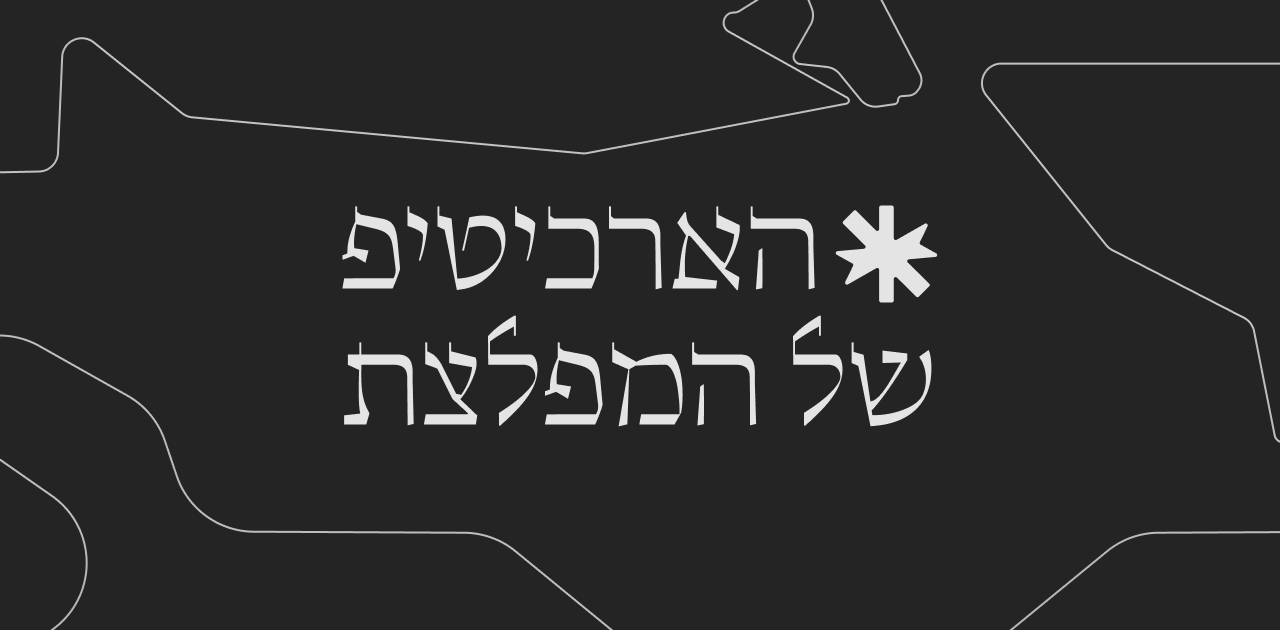
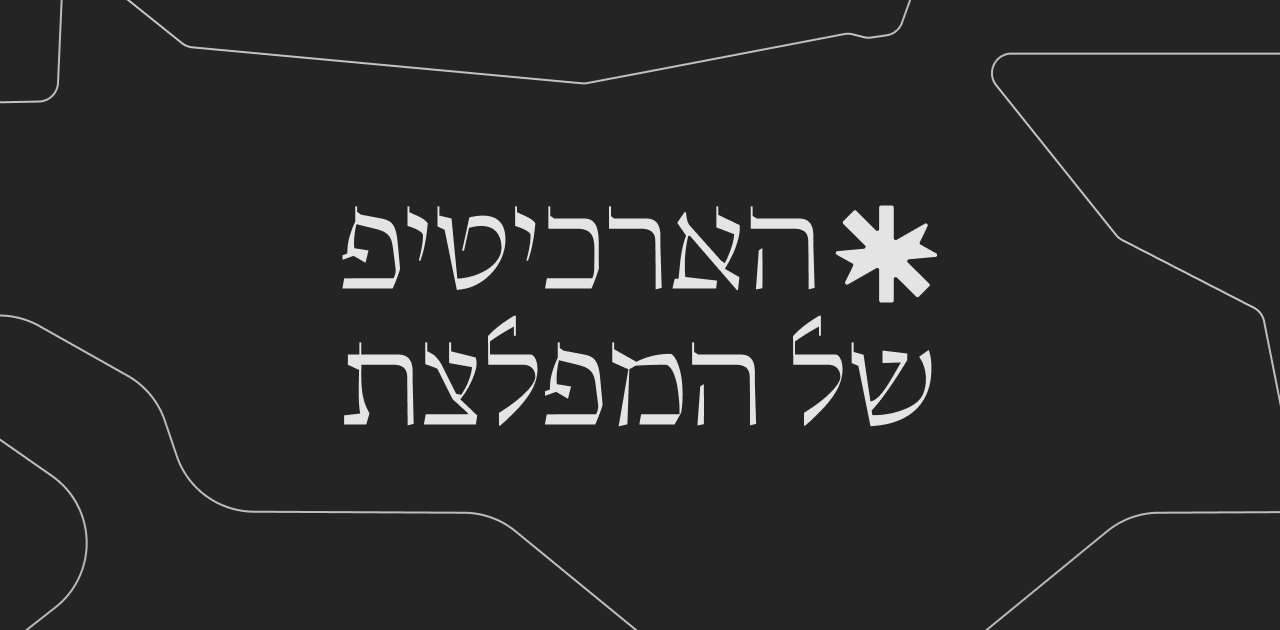
Add inner-page images, curate captions, refine Hebrew analysis  Gallery images - Add reference images across the inner-page galleries (~34 monster   folders). Picked up automatically by import.meta.glob — no code wiring.  Captions (src/data/monsterImages.ts) - Derive captions from filenames automati

diff --git a/src/data/monsterImages.ts b/src/data/monsterImages.ts
@@ -12,22 +12,160 @@ const modules = import.meta.glob(
 export interface MonsterImage {
   /** Resolved URL (Vite-hashed in build, dev server path in dev). */
   src: string;
-  /** Caption shown in the lightbox, derived from the filename. */
+  /** Caption shown in the lightbox, derived from the filename (or curated). */
   title: string;
 }
 
-// Turn a globbed path into a human-ish caption: drop the directory + extension,
-// turn separators into spaces, collapse runs, and trim a trailing "_1"-style
-// index. Deliberately rough — the source filenames are messy — so a hand-curated
-// title/artist map can replace this later without touching any callers.
-function titleFromPath(path: string): string {
-  const file = path.split('/').pop() ?? path;
-  return file
+// ---------------------------------------------------------------------------
+// Caption derivation
+//
+// The source files come from Wikimedia/museum exports, so the raw filenames
+// carry predictable noise: the creator field doubled ("Edvard Munch Edvard
+// Munch…"), trailing/embedded accession codes ("… MET DP252320", "… 19895139"),
+// zero-padded page indices ("… 001"), and photo-tool tokens ("IMG_1234",
+// "…_cropped"). `captionFromFilename` strips all of that mechanically so most
+// captions read as "Artist, Title, date" with no per-file work.
+//
+// A handful can't be fixed by rule — filenames the exporter truncated mid-word,
+// or ones that reduce to a bare code with no words. Those get a hand-written
+// entry in CAPTIONS below, which wins over the derived text.
+// ---------------------------------------------------------------------------
+
+// A "code" token: a museum accession id, not a real word or a plain year.
+// Kept: 1–4 digit numbers (years, "Room 42", "100 Aspects"). Dropped: DP252320,
+// V0045104, M71769, B20099105, 19895139, 197921b, and any 5+ digit run.
+function isCode(tok: string): boolean {
+  if (/^\d{1,4}$/.test(tok)) return false;
+  if (/^[A-Za-z]{0,4}\d{2,}[A-Za-z]?$/.test(tok)) return true;
+  if (/^\d{5,}$/.test(tok)) return true;
+  return false;
+}
+
+// Collapse an immediately-repeated run of 1–4 tokens (the doubled creator field:
+// "James McNeill Whistler James McNeill Whistler" → "James McNeill Whistler").
+function dedupAdjacentPhrases(tokens: string[]): string[] {
+  let changed = true;
+  while (changed) {
+    changed = false;
+    for (let k = 4; k >= 1 && !changed; k--) {
+      for (let i = 0; i + 2 * k <= tokens.length; i++) {
+        const a = tokens.slice(i, i + k).map((x) => x.toLowerCase()).join(' ');
+        const b = tokens.slice(i + k, i + 2 * k).map((x) => x.toLowerCase()).join(' ');
+        if (a && a === b) {
+          tokens.splice(i, k);
+          changed = true;
+          break;
+        }
+      }
+    }
+  }
+  return tokens;
+}
+
+const MUSEUM_ABBR = new Set([
+  'MET', 'Met', 'DP', 'LACMA', 'Walters', 'Wellcome', 'BM', 'AO', 'DT', 'MNK', 'MAS', 'WGA',
+]);
+const PHOTO_JUNK = new Set(['Profile', 'cropped', 'gradient', 'scan', 'black']);
+const isIndex = (tok: string) => /^0*\d{1,3}$/.test(tok); // 1–3 digits, incl. zero-padded (001)
+
+export function captionFromFilename(pathOrFile: string): string {
+  const file = pathOrFile.split('/').pop() ?? pathOrFile;
+  const base = file
     .replace(/\.[^.]+$/, '') // extension
     .replace(/[-_]+/g, ' ') // separators → spaces
-    .replace(/\s+/g, ' ') // collapse runs
-    .replace(/\s+\d+$/, '') // trailing bare index (e.g. "… 1")
+    .replace(/\s+/g, ' ')
     .trim();
+
+  // Un-glue "<lower>Unknown" (Wikimedia glues the creator field: "authorUnknown",
+  // "ChinaUnknown", "EastUnknown") so the dedup below can see the repeat.
+  let s = base.replace(/([a-z])Unknown\b/g, '$1 Unknown');
+
+  let t = s.split(' ').filter(Boolean);
+
+  // Drop photo-tool tokens and museum accession codes anywhere in the string.
+  for (let i = 0; i < t.length; i++) {
+    if (/^(IMG|DSC)$/i.test(t[i])) {
+      if (t[i + 1] && /^\d+$/.test(t[i + 1])) t[i + 1] = '';
+      t[i] = '';
+    }
+    if (/^(cropped|gradient)$/i.test(t[i])) t[i] = '';
+    if (isCode(t[i])) t[i] = '';
+  }
+  t = t.filter(Boolean);
+
+  t = dedupAdjacentPhrases(t);
+
+  // Strip trailing museum name / photo-junk / bare index left dangling by the above.
+  while (t.length) {
+    const last = t[t.length - 1];
+    if (MUSEUM_ABBR.has(last) || PHOTO_JUNK.has(last) || isIndex(last)) t.pop();
+    else break;
+  }
+
+  s = t.join(' ');
+  // "<Name> … by <same Name>" → drop the redundant trailing "by <Name>".
+  s = s.replace(/^(\S+(?: \S+){0,3}) (.*) by \1$/i, '$1 $2');
+  s = s.replace(/\s+\d+$/, '').replace(/\s+/g, ' ').trim();
+
+  // Never return something with no real words: fall back to the naive humanized
+  // filename so a caption is never blank (curated CAPTIONS cover these anyway).
+  const letters = (s.match(/[A-Za-zÀ-ɏ֐-׿一-鿿]/g) || []).length;
+  if (letters <= 1) return base.replace(/\s+\d+$/, '').trim() || base;
+  return s;
+}
+
+// Hand-curated captions for files the rules can't rescue (truncated mid-word, or
+// reduced to a bare accession code). Keyed by exact filename; wins over the
+// derived caption. Filled in batches — see the caption-cleanup task.
+const CAPTIONS: Record<string, string> = {
+  " .jpg": "Theodor Kittelsen, The Draug (Draugen), Norwegian, c. 1890s",
+  "19th-century-artists-working-in-Pompeii-Mosaic-depicting-Theseus-fighting-the-Minotaur-from-Room-42-the-House-of-the-Lab.jpg": "Mosaic depicting Theseus fighting the Minotaur, from the House of the Labyrinth (Room 42), Pompeii",
+  "59 (681).jpg": "Illustration for J. Sheridan Le Fanu's 'Carmilla' by David Henry Friston, 1872",
+  "Abu-al-Abbas-Amad-ibn-Abi-Abd-Allah-Muammad-ibn-Amad-al-Misri-14th-cent-Jafar-al-Sadiq-702-765-or-6-Irbili-iya-al-Din-us.png": "Illustrated Arabic manuscript on the occult sciences, 14th century (attributed to Jaʿfar al-Sadiq)",
+  "Anonymous-Near-EastUnknown-author-Near-Eastern-Cylinder-Seal-with-Enkidu-Vanquishing-the-Bull-of-Heaven-Walters-42786-Si.jpg": "Near Eastern cylinder seal: Enkidu vanquishing the Bull of Heaven — Walters Art Museum",
+  "Anonymous-Near-EastUnknown-author-Near-Eastern-Cylinder-Seal-with-Enkidu-Vanquishing-the-Bull-of-Heaven-Walters-42786-Si_1.jpg": "Near Eastern cylinder seal: Enkidu vanquishing the Bull of Heaven — Walters Art Museum",
+  "Anonymous-Near-EastUnknown-author-Near-Eastern-Cylinder-Seal-with-Enkidu-Vanquishing-the-Bull-of-Heaven-Walters-42786-Si_2.jpg": "Near Eastern cylinder seal: Enkidu vanquishing the Bull of Heaven — Walters Art Museum",
+  "Anonymous-Near-EastUnknown-author-Near-Eastern-Cylinder-Seal-with-Enkidu-Vanquishing-the-Bull-of-Heaven-Walters-42786-Si_3.jpg": "Near Eastern cylinder seal: Enkidu vanquishing the Bull of Heaven — Walters Art Museum",
+  "Anonymous-Near-EastUnknown-author-Near-Eastern-Cylinder-Seal-with-Enkidu-Vanquishing-the-Bull-of-Heaven-Walters-42786-Si_4.jpg": "Near Eastern cylinder seal: Enkidu vanquishing the Bull of Heaven — Walters Art Museum",
+  "Anonymous-Near-EastUnknown-author-Near-Eastern-Cylinder-Seal-with-Enkidu-Vanquishing-the-Bull-of-Heaven-Walters-42786-Si_5.jpg": "Near Eastern cylinder seal: Enkidu vanquishing the Bull of Heaven — Walters Art Museum",
+  "Anonymous-Near-EastUnknown-author-Near-Eastern-Cylinder-Seal-with-Enkidu-Vanquishing-the-Bull-of-Heaven-Walters-42786-Si_6.jpg": "Near Eastern cylinder seal: Enkidu vanquishing the Bull of Heaven — Walters Art Museum",
+  "Anonymous-Near-EastUnknown-author-Near-Eastern-Cylinder-Seal-with-Enkidu-Vanquishing-the-Bull-of-Heaven-Walters-42786-To.jpg": "Near Eastern cylinder seal: Enkidu vanquishing the Bull of Heaven — Walters Art Museum",
+  "Antimenes-Painter-Greek-Attic-active-c-530-510-BCE-Black-Figure-Hydria-Water-Vessel-Frontal-Quadriga-Body-Theseus-and-Mi.jpg": "Antimenes Painter, black-figure hydria with Theseus and the Minotaur, Greek (Attic), c. 530–510 BCE",
+  "Artist-is-Lee-Lawrie-1877-1963-Photographed-2007-by-Carol-Highsmith-1946-who-explicitly-placed-the-photograph-in-the-pub.jpg": "Quetzalcoatl, architectural sculpture by Lee Lawrie (1877–1963)",
+  "Battle-of-Ravana-and-Jatayu-from-Chapters-50-and-51-of-the-Aranya-Kanda-Book-of-the-Forest-of-Valmikis-Ramayana-Ramas-Jo.jpg": "The Battle of Ravana and Jatayu, from the Aranya Kanda (Book of the Forest) of Valmiki's Ramayana",
+  "DT880.jpg": "Human-headed winged lion (lamassu), Neo-Assyrian, ca. 883–859 BC, from Nimrud — The Metropolitan Museum of Art",
+  "Daderot-Apsarases-1-of-5-China-Northern-or-Eastern-Wei-dynasty-500-550-AD-gilt-bronze-Arthur-M-Sackler-Museum-Harvard-Un.jpg": "Apsarases, China, Northern or Eastern Wei dynasty, 500–550 AD, gilt bronze — Arthur M. Sackler Museum, Harvard",
+  "Daderot-Kesi-fragment-with-dragon-design-on-purple-ground-China-Yuan-dynasty-1200s-1300s-AD-textile-Tokyo-National-Museu.jpg": "Kesi (silk tapestry) fragment with dragon design on a purple ground, China, Yuan dynasty (1200s–1300s AD) — Tokyo National Museum",
+  "Daderot-Namanari-type-noh-mask-Edo-period-1700s-1800s-AD-wood-polychromy-Tokyo-National-Museum-Ueno-Park-Tokyo-Japan-DSC.jpg": "Namanari-type Noh mask, Edo period (1700s–1800s AD), wood with polychromy — Tokyo National Museum",
+  "Fazl-Indian-Indian-Mughal-dynasty-Arjuna-fells-Ravana-with-his-mace-and-advances-to-capture-him-with-his-thousand-arms.jpg": "Kartavirya Arjuna fells Ravana with his mace and captures him with his thousand arms, Mughal dynasty",
+  "Gary-Todd-from-Xinzheng-China-Ancient-Greece-Pentelic-Marble-Funerary-Statue-of-a-Siren-370-BC-Found-Next-to-Stele-of-At.jpg": "Funerary statue of a Siren, Ancient Greece, Pentelic marble, c. 370 BC",
+  "Gilles-Paul-Cauvet-Design-for-a-Decorative-Panel-with-Two-Sirens-Holding-a-Vase-Embellished-with-Dolphins-and-other-Deco.jpg": "Gilles-Paul Cauvet, Design for a Decorative Panel with Two Sirens Holding a Vase Embellished with Dolphins",
+  "Giovanni-Antonio-da-Brescia-Italian-c-1460-1523-Griffins-and-Two-Cupids-Crossing-Halberds-plate-five-of-Twelve-Ornament-.jpg": "Giovanni Antonio da Brescia, Griffins and Two Cupids Crossing Halberds (plate 5 of Twelve Ornament Panels), Italian, c. 1460–1523",
+  "Giovanni-DallOrto-9896-Ulysses-and-Polyphemos-2nd-century-AD-Catania-Castello-Ursino-Photo-by-Giovanni-DallOrto-October-.jpg": "Ulysses and Polyphemos, Roman, 2nd century AD — Castello Ursino, Catania",
+  "India-Madhya-Pradesh-Door-Lintel-with-God-Vishnu-on-His-Mount-Garuda-Flanked-by-the-Nine-Planetary-Deities-Navagraha.jpg": "Door lintel with Vishnu on his mount Garuda, flanked by the Nine Planetary Deities (Navagraha), Madhya Pradesh, India",
+  "John-William-Taverner-English-1703-1772-Polyphemus-Throwing-Boulder-at-Acis-with-Galatea-recto-and-Pholyphemus-Lifting-B_2.jpg": "John William Taverner, Polyphemus Throwing a Boulder at Acis, with Galatea, English, 1703–1772",
+  "Katsukawa-Shunko-I-Japanese-1743-1812-The-Actor-Iwai-Hanshiro-IV-as-Kitsune-ga-Saki-Otama-in-the-Play-Miyakodori-Yayoi-n.jpg": "Katsukawa Shunko I, The Actor Iwai Hanshiro IV as the fox-woman Otama in 'Miyakodori Yayoi no Nishiki', Japanese, 1743–1812",
+  "MET-DP12019.jpg": "Silk textile with confronting dragons amid clouds, China — The Metropolitan Museum of Art",
+  "MET-DP227291.jpg": "Rank badge (buzi) with a qilin, China, Qing dynasty — The Metropolitan Museum of Art",
+  "Mary-Harrsch-from-Springfield-Oregon-USA-A-musussu-the-sacred-animal-of-the-Mesopotamian-god-Marduk-on-the-Ishtar-Gate-o.jpg": "The mushhushu, sacred animal of the Mesopotamian god Marduk, on the Ishtar Gate of Babylon",
+  "Osama-Shukir-Muhammed-Amin-FRCPGlasg-A-pair-of-lamassus-from-the-Throne-Room-Room-B-of-the-North-West-Palace-at-Nimrud-I.jpg": "A pair of lamassus from the Throne Room (Room B) of the North-West Palace at Nimrud, Iraq",
+  "Osama-Shukir-Muhammed-Amin-FRCPGlasg-Head-of-a-lamassu-from-the-palace-of-Esarhaddon-from-Nimrud-Iraq-7th-century-BC-The.jpg": "Head of a lamassu from the palace of Esarhaddon, Nimrud, Iraq, 7th century BC",
+  "Osama-Shukir-Muhammed-Amin-FRCPGlasg-Head-of-lamassu-Marble-8th-century-BCE-from-Assur-Iraq-Ancient-Orient-Museum-Istanb.jpg": "Head of a lamassu, marble, 8th century BCE, from Assur, Iraq — Ancient Orient Museum, Istanbul",
+  "Osama-Shukir-Muhammed-Amin-FRCPGlasg-Lamassu-from-the-Throne-Room-Room-B-of-the-North-West-Palace-at-Nimrud-Iraq-9th-cen.jpg": "Lamassu from the Throne Room (Room B) of the North-West Palace at Nimrud, Iraq, 9th century BC",
+  "Osama-Shukir-Muhammed-Amin-FRCPGlasg-Non-glazed-clay-brick-from-the-Ishtar-Gate-at-Babylon-Iraq-Relief-of-a-head-of-a-dr.jpg": "Unglazed clay brick from the Ishtar Gate at Babylon, Iraq: relief of the head of a mushhushu-dragon",
+  "Pobably-Felice-Giani-Italian-1758-1823-or-possibly-Fortunato-Durati-Italian-1787-1863-or-possibly-Juan-Bautista-Martinez_2.jpg": "Polyphemus, probably Felice Giani (Italian, 1758–1823)",
+  "Print-artist-Utagawa-Kuniyoshi-Published-by-Nuno-Kichi-Sesshu-Daimotsu-no-ura-ni-Heike-no-onryo-arawaruru-no-zu-BM-20083_1.jpg": "Utagawa Kuniyoshi, The Vengeful Ghosts of the Heike Appear at Daimotsu Bay in Sesshu — British Museum",
+  "The-rejuvenated-old-man-and-the-daughter-of-the-king-of-the-jinns-take-leave-of-the-King-of-Kings-from-a-Tuti-nama-Tales.jpg": "The rejuvenated old man and the daughter of the king of the jinns take leave of the King of Kings, from a Tuti-nama (Tales of a Parrot)",
+  "Tsukioka-Yoshitoshi-1839-1892-Tsukioka-Taiso-Yoshitoshi-1839-1892-Sugawara-no-Michizane-roept-een-onweersbui-op-boven-Ky.jpg": "Tsukioka Yoshitoshi, Sugawara no Michizane summons a thunderstorm over Kyoto, 1839–1892",
+  "Unknown-authorUnknown-author-COLLECTIE-TROPENMUSEUM-Groep-Balinese-danseressen-met-op-de-voorgrond-een-man-verkleed-als-.jpg": "Balinese dancers with a man costumed as Garuda in the foreground — Tropenmuseum collection",
+  "anonymous-India-Orissa-late-18th-century-The-Monkeys-and-Bears-Fight-Ravana-and-His-Demons-verso-197921b-Cleveland-Museu.jpg": "The Monkeys and Bears Fight Ravana and His Demons, India, Orissa, late 18th century — Cleveland Museum of Art",
+};
+
+// Turn a globbed path into a caption: curated entry first, else derive from the
+// filename.
+function titleForPath(path: string): string {
+  const file = path.split('/').pop() ?? path;
+  return CAPTIONS[file] ?? captionFromFilename(file);
 }
 
 export function monsterImages(id: string): MonsterImage[] {
@@ -35,5 +173,5 @@ export function monsterImages(id: string): MonsterImage[] {
   return Object.keys(modules)
     .filter((path) => path.startsWith(prefix))
     .sort()
-    .map((path) => ({ src: modules[path] as string, title: titleFromPath(path) }));
+    .map((path) => ({ src: modules[path] as string, title: titleForPath(path) }));
 }

diff --git a/worker/index.js b/worker/index.js
@@ -18,8 +18,15 @@
 // After deploy, add the printed URL to the site build as VITE_ANALYSIS_URL.
 
 const ANTHROPIC_URL = 'https://api.anthropic.com/v1/messages';
-const MODEL = 'claude-haiku-4-5-20251001';
+// Sonnet 4.5: much stronger Hebrew spelling/grammar than Haiku, and — unlike the
+// newer Sonnet 5 — it has NO adaptive "thinking". That keeps it a plain drop-in
+// that honors `temperature` and can't spend the MAX_TOKENS budget on hidden
+// reasoning (which would truncate our JSON at only 1000 tokens).
+const MODEL = 'claude-sonnet-4-5-20250929';
 const MAX_TOKENS = 1000;
+// Below the API default of 1.0 to cut random typos / spelling drift in the
+// generated Hebrew. Not 0 — a little variation keeps phrasings from repeating.
+const TEMPERATURE = 0.5;
 
 // Browser origins allowed to call this Worker. The site's key/quota is only as
 // safe as this list — keep it tight. Add your production domain(s) and any dev
@@ -75,6 +82,10 @@ EDGE CASES - EVERY RESPONSE IS A VALID RESPONSE:
 - Repeated identical answers: repetition is a pattern. Someone who writes the same thing four times is stuck on something. What are they stuck on?
 - Irrelevant content ("pizza", "football"): concrete, everyday responses often indicate avoidance of emotional depth. Can map to security (seeking the familiar) or confusion (not understanding the task).
 - NEVER refuse to give a result. NEVER tell the user their answer is invalid. Every response gets a monster.
+
+HEBREW QUALITY:
+- The Hebrew fields (emotion_he, reasoning) must be written in correct, standard modern Hebrew: accurate spelling (כתיב תקני), correct grammar, and correct gender/number agreement.
+- Do not output spelling mistakes (שגיאות כתיב), typos, invented words, or broken/garbled characters.
 
 Respond ONLY with valid JSON, no markdown, no backticks, no preamble.
 
@@ -173,6 +184,10 @@ EDGE CASE EXPLANATIONS:
 - If the user wrote something violent: reference it directly. "ראית דם, הרס, מוות." Then connect normally to the monster. Do not soften or sanitize.
 - If the user trolled: "כתבת מילים שנועדו להרחיק, לא לקרב." Then analyze what the distancing means.
 - NEVER apologize. NEVER moralize. NEVER suggest the user needs help. This is an art project, not therapy.
+
+HEBREW QUALITY:
+- The Hebrew fields (monster_he, culture, explanation, emotion) must be written in correct, standard modern Hebrew: accurate spelling (כתיב תקני), correct grammar, and correct gender/number agreement.
+- Do not output spelling mistakes (שגיאות כתיב), typos, invented words, or broken/garbled characters.
 
 RESPONSE FORMAT (JSON only, no markdown, no backticks):
 {"monster": "monster name in English", "monster_he": "שם המפלצת בעברית", "culture": "culture of origin in Hebrew", "explanation": "3-4 sentences in Hebrew connecting user's responses to this monster", "emotion": "the emotion in Hebrew", "chapter": number 1-7}`;
@@ -302,6 +317,7 @@ export default {
         body: JSON.stringify({
           model: MODEL,
           max_tokens: MAX_TOKENS,
+          temperature: TEMPERATURE,
           system,
           messages: [{ role: 'user', content: userContent }],
         }),